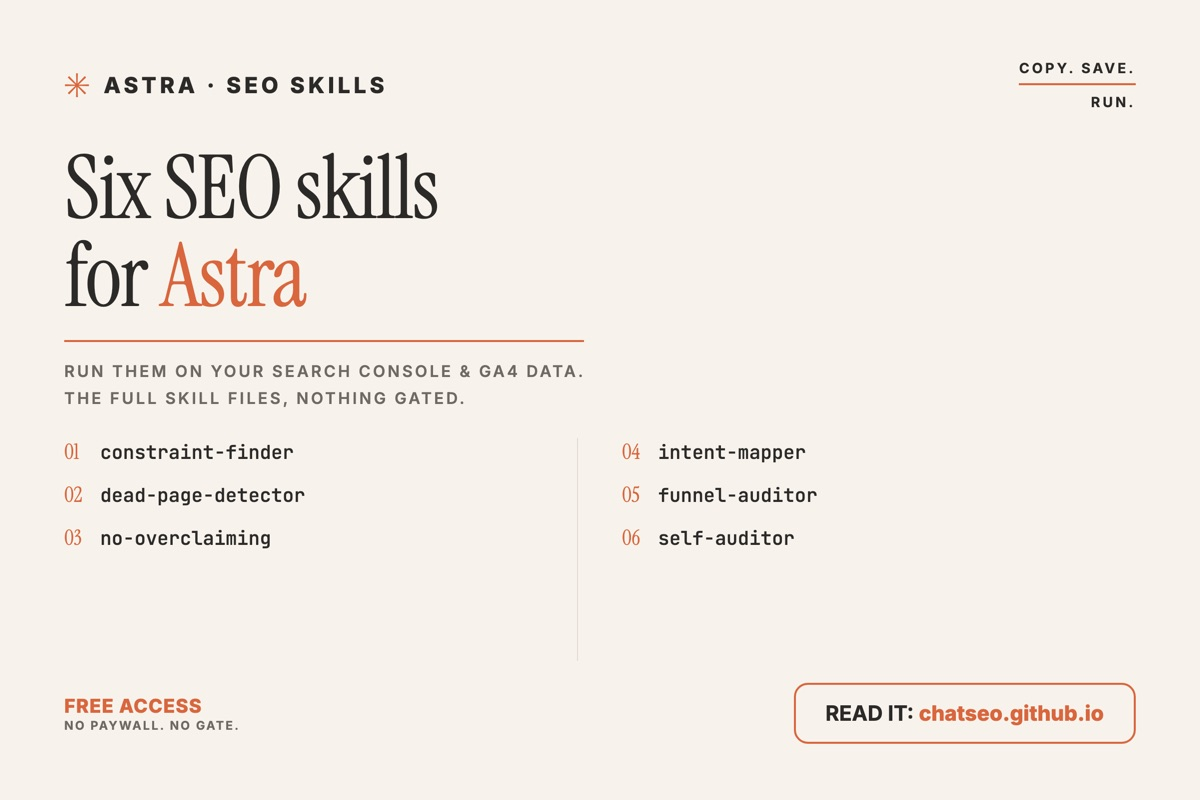
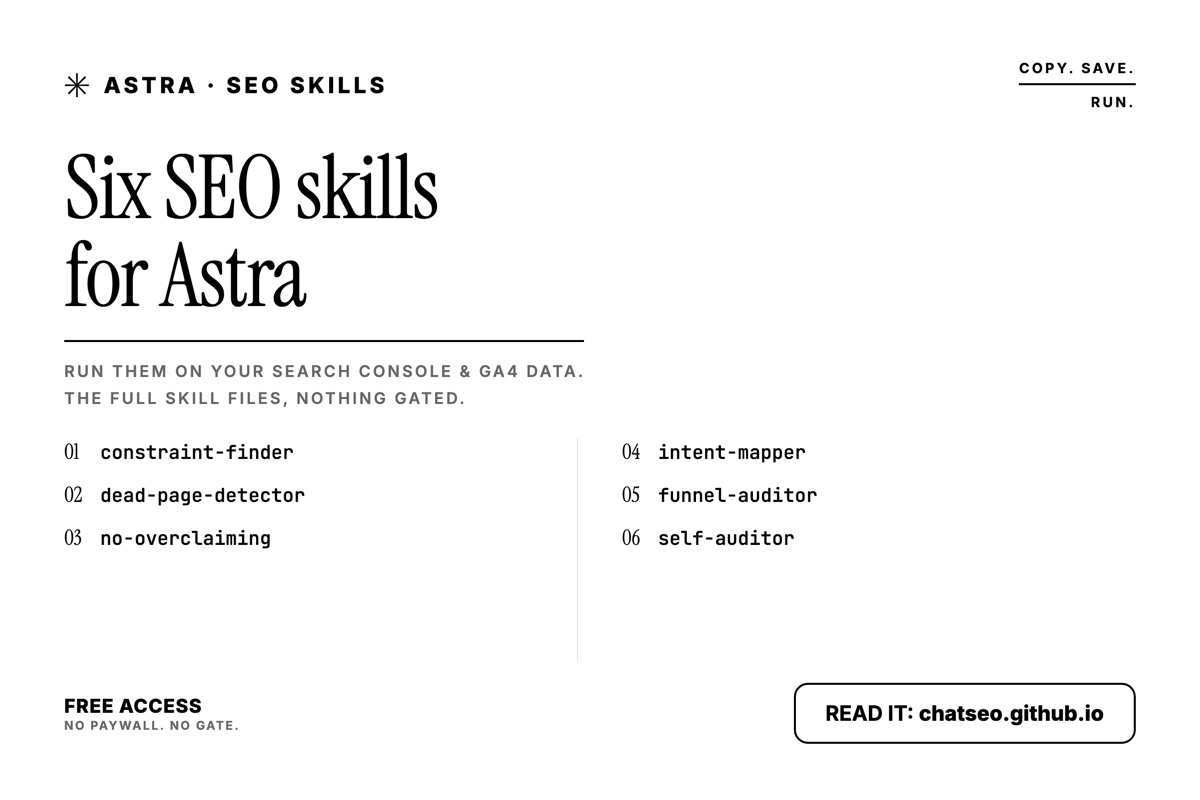
Repalette the two newest playbooks to white and black
Drops the cream/terracotta scheme on complete-seo-playbook and
astra-seo-skills: white background, black copy, black accent, dark mode
inverted. OG cards regenerated to match.

Adds --on-accent, because with a black accent the hardcoded #fff on
.btn-primary and inside accent-filled SVG shapes would have been
invisible in dark mode.

Claude-Session: https://claude.ai/code/session_01U3NXXUjbkZDYzuBkBSdGTk

diff --git a/complete-seo-playbook/index.html b/complete-seo-playbook/index.html
@@ -16,23 +16,23 @@
 <link href="https://fonts.googleapis.com/css2?family=Inter:wght@400;500;600;700;800&family=Instrument+Serif:ital@0;1&family=JetBrains+Mono:wght@400;500&display=swap" rel="stylesheet">
 <style>
 :root{
-  --bg:#F7F3EC; --surface:#FFFDF9; --ink:#2B2A28; --muted:#6E6A63;
-  --accent:#D9663D; --accent-soft:#F2D9CE; --sage:#8A9A7B;
-  --line:#E2DACE; --code-bg:#2B2A28; --code-ink:#F2EDE4;
-  --shadow:0 1px 2px rgba(43,42,40,.05), 0 8px 24px rgba(43,42,40,.06);
+  --bg:#FFFFFF; --surface:#FFFFFF; --ink:#000000; --muted:#666666;
+  --accent:#000000; --on-accent:#FFFFFF; --accent-soft:#F2F2F2; --sage:#555555;
+  --line:#E0E0E0; --code-bg:#111111; --code-ink:#F5F5F5;
+  --shadow:0 1px 2px rgba(0,0,0,.04), 0 8px 24px rgba(0,0,0,.05);
   --maxw:760px;
 }
 :root:not([data-theme="light"]){ @media (prefers-color-scheme: dark){
-  --bg:#191817; --surface:#211F1D; --ink:#EFEAE1; --muted:#A29C93;
-  --accent:#E8794F; --accent-soft:#3A2A22; --sage:#9DAD8E;
-  --line:#332F2B; --code-bg:#0F0E0D; --code-ink:#EFEAE1;
-  --shadow:0 1px 2px rgba(0,0,0,.3), 0 8px 24px rgba(0,0,0,.35);
+  --bg:#000000; --surface:#0D0D0D; --ink:#FFFFFF; --muted:#9A9A9A;
+  --accent:#FFFFFF; --on-accent:#000000; --accent-soft:#1C1C1C; --sage:#A0A0A0;
+  --line:#2A2A2A; --code-bg:#141414; --code-ink:#F5F5F5;
+  --shadow:0 1px 2px rgba(0,0,0,.4), 0 8px 24px rgba(0,0,0,.5);
 }}
 :root[data-theme="dark"]{
-  --bg:#191817; --surface:#211F1D; --ink:#EFEAE1; --muted:#A29C93;
-  --accent:#E8794F; --accent-soft:#3A2A22; --sage:#9DAD8E;
-  --line:#332F2B; --code-bg:#0F0E0D; --code-ink:#EFEAE1;
-  --shadow:0 1px 2px rgba(0,0,0,.3), 0 8px 24px rgba(0,0,0,.35);
+  --bg:#000000; --surface:#0D0D0D; --ink:#FFFFFF; --muted:#9A9A9A;
+  --accent:#FFFFFF; --on-accent:#000000; --accent-soft:#1C1C1C; --sage:#A0A0A0;
+  --line:#2A2A2A; --code-bg:#141414; --code-ink:#F5F5F5;
+  --shadow:0 1px 2px rgba(0,0,0,.4), 0 8px 24px rgba(0,0,0,.5);
 }
 *{box-sizing:border-box}
 html{scroll-behavior:smooth; scroll-padding-top:72px}
@@ -76,7 +76,7 @@ h1 em{font-style:italic; color:var(--accent)}
   display:inline-flex; align-items:center; gap:8px; padding:13px 24px; border-radius:10px;
   font-weight:600; font-size:15px; text-decoration:none; border:1px solid transparent; transition:.15s;
 }
-.btn-primary{background:var(--accent); color:#fff}
+.btn-primary{background:var(--accent); color:var(--on-accent)}
 .btn-primary:hover{filter:brightness(1.07); transform:translateY(-1px)}
 .btn-ghost{border-color:var(--line); color:var(--ink); background:var(--surface)}
 .btn-ghost:hover{border-color:var(--accent); color:var(--accent)}
@@ -145,15 +145,15 @@ strong{font-weight:650}
 }
 .prompt-label{
   font-family:"JetBrains Mono",ui-monospace,monospace; font-size:11.5px;
-  letter-spacing:.06em; text-transform:uppercase; color:#9A938A;
+  letter-spacing:.06em; text-transform:uppercase; color:#8A8A8A;
 }
 .copy{
-  background:rgba(255,255,255,.09); color:#F2EDE4; border:0; border-radius:6px;
+  background:rgba(255,255,255,.12); color:#F5F5F5; border:0; border-radius:6px;
   padding:5px 11px; font-size:12px; font-weight:600; cursor:pointer;
   font-family:Inter,sans-serif; transition:.15s; white-space:nowrap;
 }
 .copy:hover{background:var(--accent)}
-.copy.done{background:var(--sage); color:#12140F}
+.copy.done{background:var(--sage); color:var(--bg)}
 pre{
   margin:0; background:var(--code-bg); color:var(--code-ink); border-radius:0 0 10px 10px;
   padding:17px; overflow-x:auto; font-family:"JetBrains Mono",ui-monospace,monospace;
@@ -754,8 +754,8 @@ End with the one sentence I should write first.</pre>
         </g>
 
         <rect x="545" y="248" width="310" height="124" rx="14" fill="var(--accent)"/>
-        <text x="700" y="300" font-size="28" font-weight="700" text-anchor="middle" fill="#FFFDF9" letter-spacing="1">ONE CLUSTER</text>
-        <text x="700" y="338" font-size="21" text-anchor="middle" fill="#FFFDF9" opacity=".85">4–6 pages, one buyer</text>
+        <text x="700" y="300" font-size="28" font-weight="700" text-anchor="middle" fill="var(--on-accent)" letter-spacing="1">ONE CLUSTER</text>
+        <text x="700" y="338" font-size="21" text-anchor="middle" fill="var(--on-accent)" opacity=".85">4–6 pages, one buyer</text>
 
         <text x="700" y="580" font-size="23" text-anchor="middle" fill="var(--muted)">Four surfaces, one target, for six weeks. Then move the target.</text>
       </g>

diff --git a/astra-seo-skills/index.html b/astra-seo-skills/index.html
@@ -16,23 +16,23 @@
 <link href="https://fonts.googleapis.com/css2?family=Inter:wght@400;500;600;700;800&family=Instrument+Serif:ital@0;1&family=JetBrains+Mono:wght@400;500&display=swap" rel="stylesheet">
 <style>
 :root{
-  --bg:#F7F3EC; --surface:#FFFDF9; --ink:#2B2A28; --muted:#6E6A63;
-  --accent:#D9663D; --accent-soft:#F2D9CE; --sage:#8A9A7B;
-  --line:#E2DACE; --code-bg:#2B2A28; --code-ink:#F2EDE4;
-  --shadow:0 1px 2px rgba(43,42,40,.05), 0 8px 24px rgba(43,42,40,.06);
+  --bg:#FFFFFF; --surface:#FFFFFF; --ink:#000000; --muted:#666666;
+  --accent:#000000; --on-accent:#FFFFFF; --accent-soft:#F2F2F2; --sage:#555555;
+  --line:#E0E0E0; --code-bg:#111111; --code-ink:#F5F5F5;
+  --shadow:0 1px 2px rgba(0,0,0,.04), 0 8px 24px rgba(0,0,0,.05);
   --maxw:760px;
 }
 :root:not([data-theme="light"]){ @media (prefers-color-scheme: dark){
-  --bg:#191817; --surface:#211F1D; --ink:#EFEAE1; --muted:#A29C93;
-  --accent:#E8794F; --accent-soft:#3A2A22; --sage:#9DAD8E;
-  --line:#332F2B; --code-bg:#0F0E0D; --code-ink:#EFEAE1;
-  --shadow:0 1px 2px rgba(0,0,0,.3), 0 8px 24px rgba(0,0,0,.35);
+  --bg:#000000; --surface:#0D0D0D; --ink:#FFFFFF; --muted:#9A9A9A;
+  --accent:#FFFFFF; --on-accent:#000000; --accent-soft:#1C1C1C; --sage:#A0A0A0;
+  --line:#2A2A2A; --code-bg:#141414; --code-ink:#F5F5F5;
+  --shadow:0 1px 2px rgba(0,0,0,.4), 0 8px 24px rgba(0,0,0,.5);
 }}
 :root[data-theme="dark"]{
-  --bg:#191817; --surface:#211F1D; --ink:#EFEAE1; --muted:#A29C93;
-  --accent:#E8794F; --accent-soft:#3A2A22; --sage:#9DAD8E;
-  --line:#332F2B; --code-bg:#0F0E0D; --code-ink:#EFEAE1;
-  --shadow:0 1px 2px rgba(0,0,0,.3), 0 8px 24px rgba(0,0,0,.35);
+  --bg:#000000; --surface:#0D0D0D; --ink:#FFFFFF; --muted:#9A9A9A;
+  --accent:#FFFFFF; --on-accent:#000000; --accent-soft:#1C1C1C; --sage:#A0A0A0;
+  --line:#2A2A2A; --code-bg:#141414; --code-ink:#F5F5F5;
+  --shadow:0 1px 2px rgba(0,0,0,.4), 0 8px 24px rgba(0,0,0,.5);
 }
 *{box-sizing:border-box}
 html{scroll-behavior:smooth; scroll-padding-top:72px}
@@ -76,7 +76,7 @@ h1 em{font-style:italic; color:var(--accent)}
   display:inline-flex; align-items:center; gap:8px; padding:13px 24px; border-radius:10px;
   font-weight:600; font-size:15px; text-decoration:none; border:1px solid transparent; transition:.15s;
 }
-.btn-primary{background:var(--accent); color:#fff}
+.btn-primary{background:var(--accent); color:var(--on-accent)}
 .btn-primary:hover{filter:brightness(1.07); transform:translateY(-1px)}
 .btn-ghost{border-color:var(--line); color:var(--ink); background:var(--surface)}
 .btn-ghost:hover{border-color:var(--accent); color:var(--accent)}
@@ -145,15 +145,15 @@ strong{font-weight:650}
 }
 .prompt-label{
   font-family:"JetBrains Mono",ui-monospace,monospace; font-size:11.5px;
-  letter-spacing:.06em; text-transform:uppercase; color:#9A938A;
+  letter-spacing:.06em; text-transform:uppercase; color:#8A8A8A;
 }
 .copy{
-  background:rgba(255,255,255,.09); color:#F2EDE4; border:0; border-radius:6px;
+  background:rgba(255,255,255,.12); color:#F5F5F5; border:0; border-radius:6px;
   padding:5px 11px; font-size:12px; font-weight:600; cursor:pointer;
   font-family:Inter,sans-serif; transition:.15s; white-space:nowrap;
 }
 .copy:hover{background:var(--accent)}
-.copy.done{background:var(--sage); color:#12140F}
+.copy.done{background:var(--sage); color:var(--bg)}
 pre{
   margin:0; background:var(--code-bg); color:var(--code-ink); border-radius:0 0 10px 10px;
   padding:17px; overflow-x:auto; font-family:"JetBrains Mono",ui-monospace,monospace;
